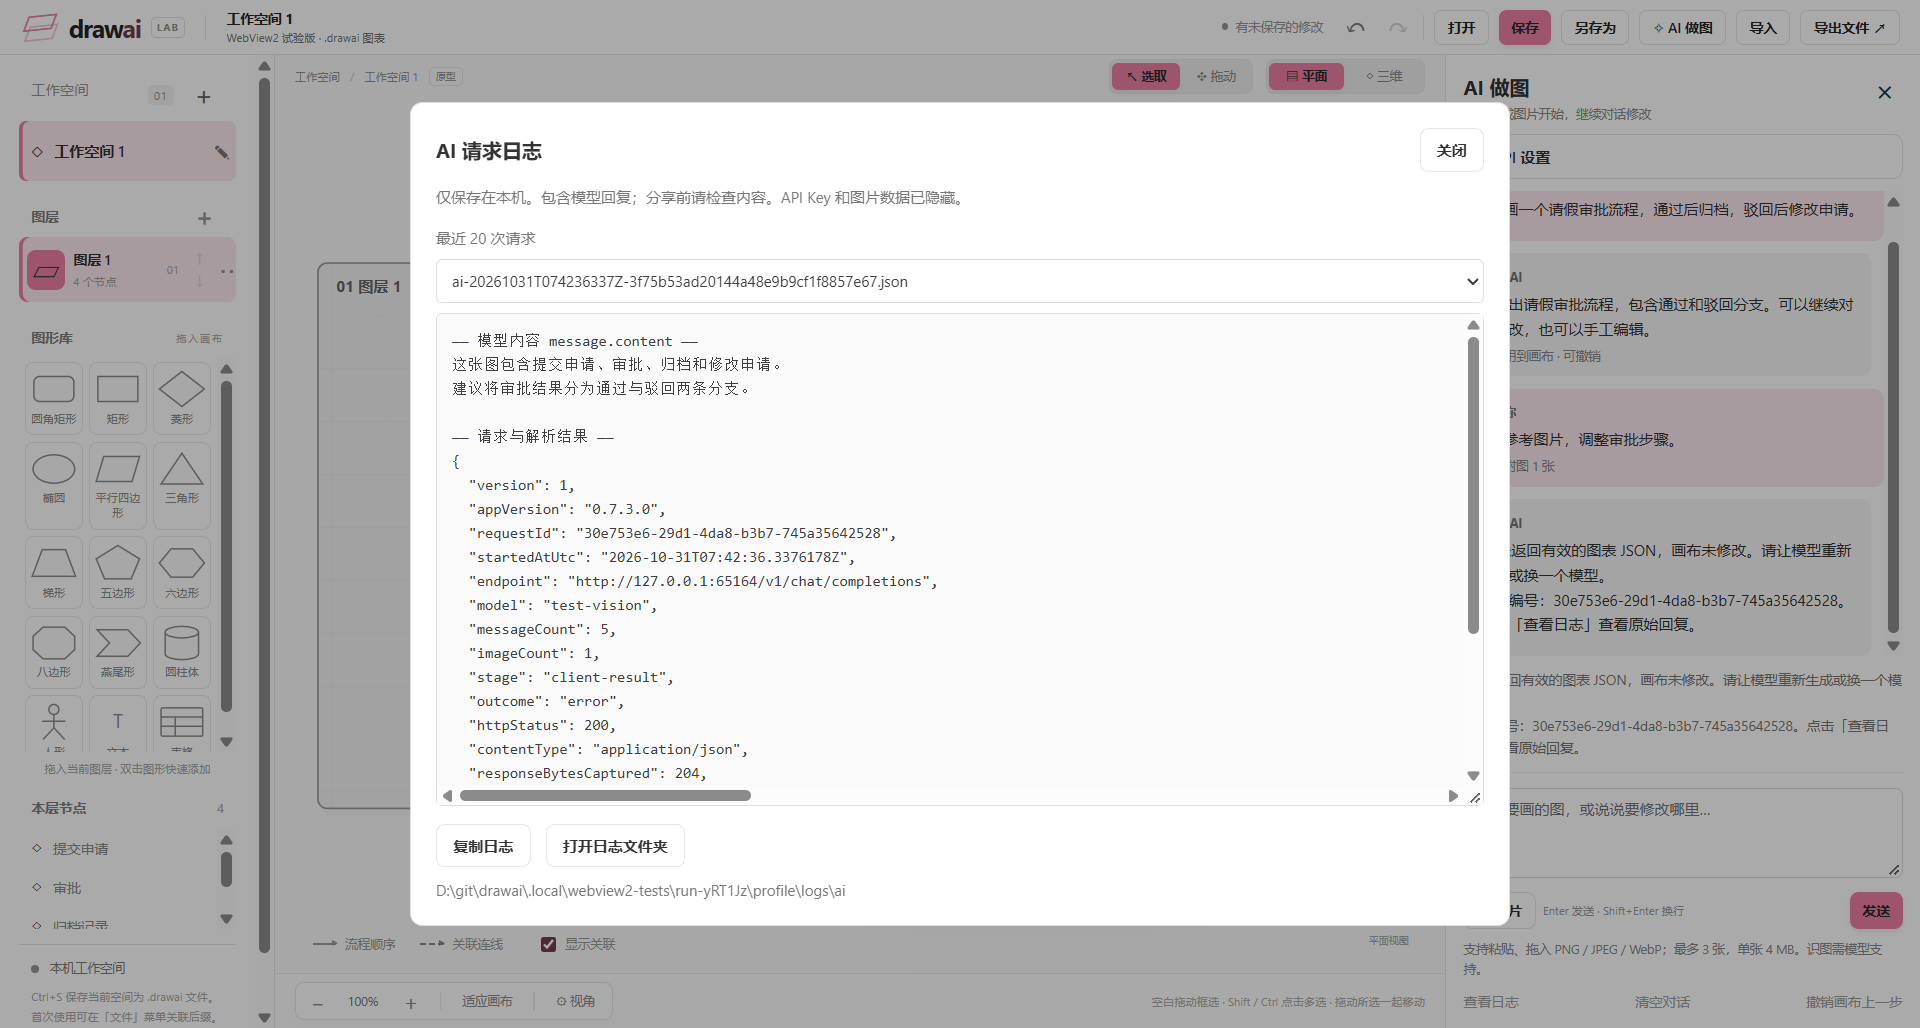
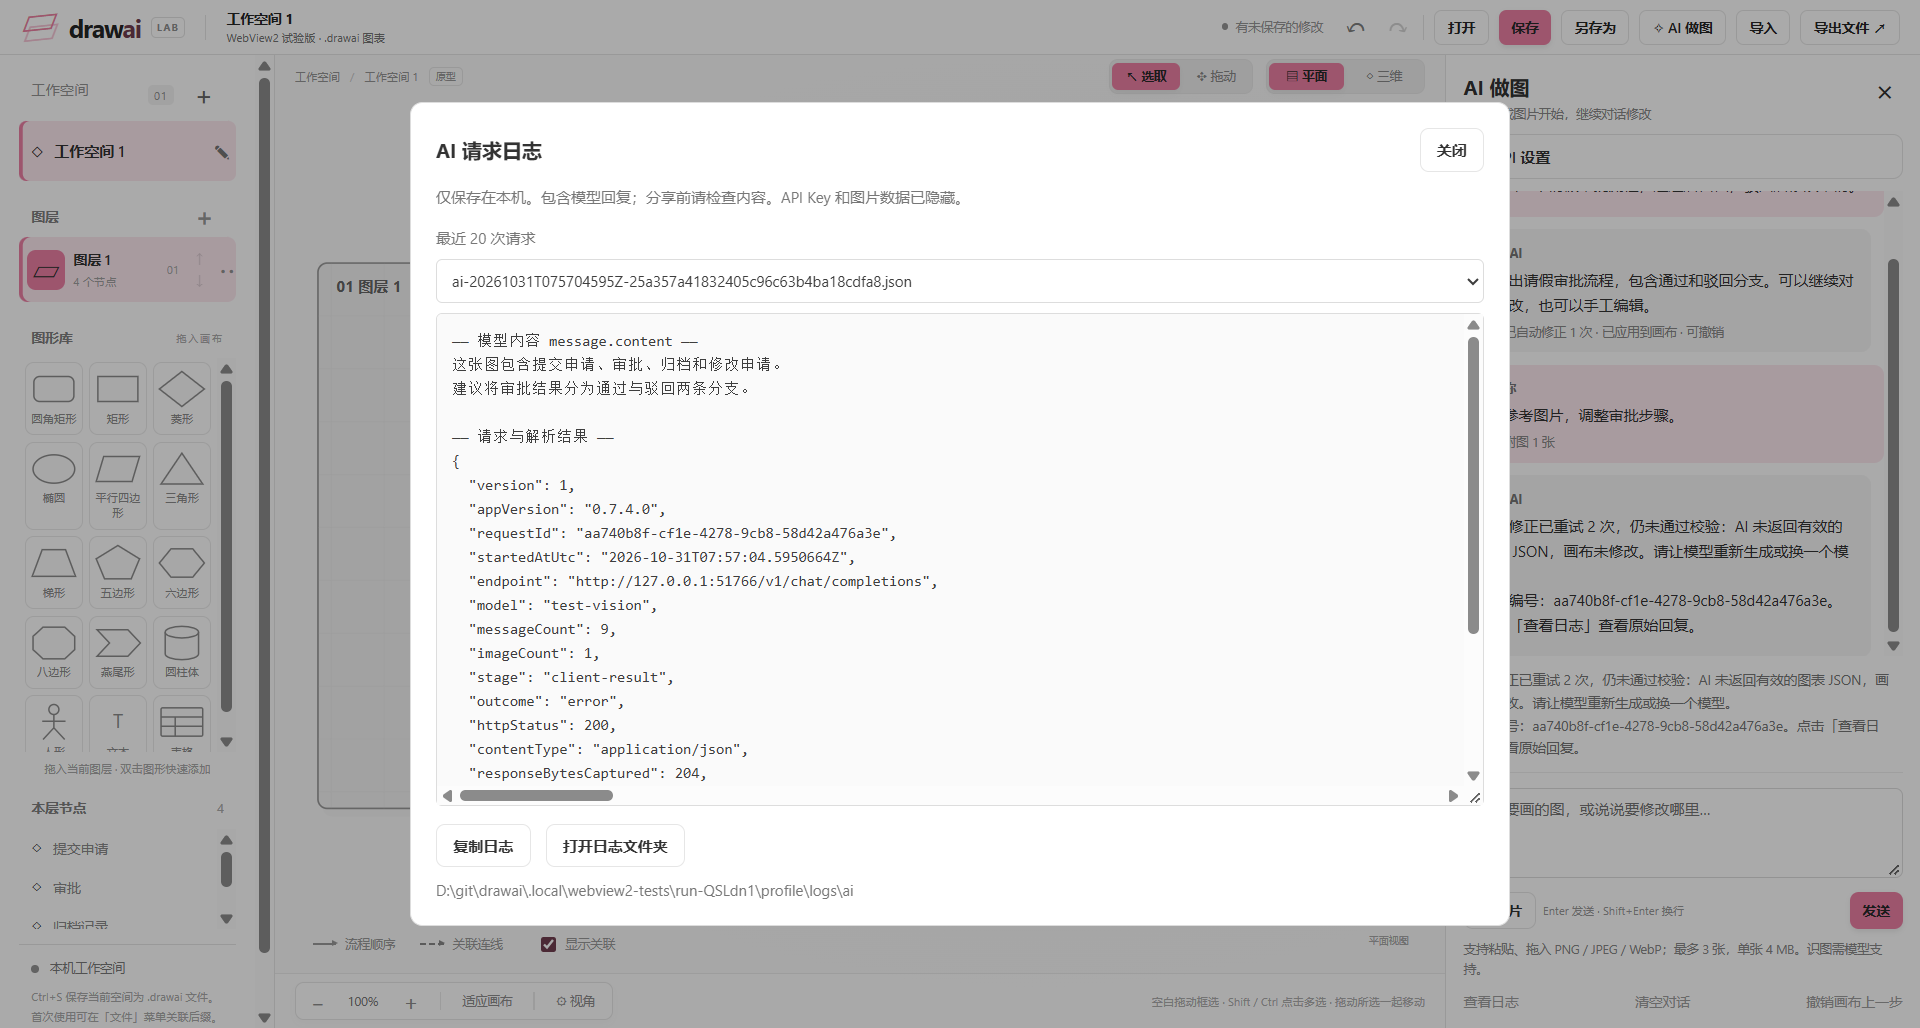
Retry invalid AI diagrams with precise validation feedback

diff --git a/src/ai-panel.js b/src/ai-panel.js
@@ -1,4 +1,4 @@
-import { aiSettings, aiRequest, aiResponse, fetchAI } from './ai.js';
+import { aiSettings, aiRequest, aiResponse, fetchAI, aiRepairRequest, AIValidationError } from './ai.js';
 
 export function mountAIPanel(host) {
   const $ = id => document.getElementById(id), panel = $('ai-panel'), sessions = new Map();
@@ -70,7 +70,7 @@ export function mountAIPanel(host) {
     $('ai-new-workspace').hidden = !s.pending;
     $('ai-clear').disabled = !!busy;
     $('ai-toggle').textContent = busy ? 'AI 生成中…' : '✧ AI 做图';
-    if (busy) note(busy.testing ? '正在测试连接…' : busy.workspace === host.context().id ? 'AI 正在理解并绘图，可以随时停止…' : '另一个工作空间正在生成，可以停止或稍后返回查看。');
+    if (busy) note(busy.retryStatus || (busy.testing ? '正在测试连接…' : busy.workspace === host.context().id ? 'AI 正在理解并绘图，可以随时停止…' : '另一个工作空间正在生成，可以停止或稍后返回查看。'));
     messages.scrollTop = messages.scrollHeight;
   }
   $('ai-toggle').onclick = () => { panel.hidden = !panel.hidden; $('ai-toggle').setAttribute('aria-expanded', String(!panel.hidden)); if (!panel.hidden) { refresh(); $('ai-prompt').focus(); } host.resize(); };
@@ -121,32 +121,69 @@ export function mountAIPanel(host) {
       if (s.messages.length > 40) s.messages.splice(0, s.messages.length - 40);
     }
     refresh();
-    let outcome = 'success', diagnostic = '', logError = '';
-    const timer = setTimeout(() => { job.timedOut = true; job.controller.abort(); host.transport?.cancel(job.id); }, 120000);
+    let outcome = 'success', diagnostic = '', logError = '', attempt = 0;
+    const operationId = job.id;
+    let loggedId = null;
+    const describeError = error => {
+      const parts = [];
+      for (let current = error, depth = 0; current && depth < 5; current = current.cause, depth++) parts.push(current.stack || current.name + ': ' + current.message);
+      return parts.join('\nCaused by: ');
+    };
+    async function saveAttempt() {
+      if (!host.logs || loggedId === job.id) return;
+      loggedId = job.id;
+      try {
+        const saved = await host.logs.result({ id: job.id, outcome: job.timedOut ? 'timeout' : job.canceled ? 'canceled' : outcome, error: ('任务编号：' + operationId + '；尝试 ' + (attempt + 1) + '/3\n' + diagnostic).slice(0, 16000) });
+        lastLogFile = saved.file || lastLogFile; logError = saved.error || saved.logError || logError;
+      } catch { logError = '日志写入失败。'; }
+    }
+    let timer;
+    const startTimer = () => timer = setTimeout(() => { job.timedOut = true; job.controller.abort(); host.transport?.cancel(job.id); }, 120000);
     try {
-      const reply = host.transport ? await host.transport.request({ ...request, id: job.id }) : await fetchAI(request, job.controller.signal);
-      lastLogFile = reply.logFile || null; logError = reply.logError || '';
-      if (job.canceled || job.timedOut) return;
-      if (reply.error) throw new Error(reply.error);
-      if (testing) {
-        if (reply.status < 200 || reply.status >= 300) aiResponse(reply.text, reply.status);
-        let body; try { body = JSON.parse(reply.text); } catch { throw new Error('接口未返回 JSON，请检查地址。'); }
-        if (!body.choices?.[0]?.message) throw new Error('接口回复不符合 Chat Completions 格式。');
-        note('连接成功，模型可用。识图能力需通过附图请求确认。'); return;
+      let result;
+      for (attempt = 0; attempt <= 2; attempt++) {
+        if (job.canceled || job.timedOut) return;
+        startTimer();
+        const reply = host.transport ? await host.transport.request({ ...request, id: job.id }) : await fetchAI(request, job.controller.signal);
+        clearTimeout(timer);
+        lastLogFile = reply.logFile || null; logError = reply.logError || logError;
+        if (job.canceled || job.timedOut) return;
+        if (reply.error) throw new Error(reply.error);
+        if (testing) {
+          if (reply.status < 200 || reply.status >= 300) aiResponse(reply.text, reply.status);
+          let body; try { body = JSON.parse(reply.text); } catch { throw new Error('接口未返回 JSON，请检查地址。'); }
+          if (!body.choices?.[0]?.message) throw new Error('接口回复不符合 Chat Completions 格式。');
+          note('连接成功，模型可用。识图能力需通过附图请求确认。'); return;
+        }
+        try {
+          result = aiResponse(reply.text, reply.status);
+          if (attempt && !result.document) throw new AIValidationError('修正回复缺少完整图表 document，画布未修改。');
+          break;
+        } catch (error) {
+          if (!(error instanceof AIValidationError)) throw error;
+          if (attempt === 2) throw new Error('自动修正已重试 2 次，仍未通过校验：' + error.message, { cause: error });
+          const nextRequest = aiRepairRequest(request, reply.text, error);
+          outcome = 'retry'; diagnostic = describeError(error);
+          await saveAttempt();
+          if (job.canceled || job.timedOut) return;
+          job.id = crypto.randomUUID(); request = nextRequest; outcome = 'success'; diagnostic = '';
+          job.retryStatus = '校验失败：' + error.message + '\n正在让模型修正（第 ' + (attempt + 1) + '/2 次重试）…';
+          refresh();
+        }
       }
-      const result = aiResponse(reply.text, reply.status);
       let status = '';
       if (result.document) {
         if (host.apply(result.document, base)) { status = '已应用到画布 · 可撤销'; s.pending = null; }
         else { s.pending = result.document; outcome = 'pending-review'; status = '画布已变化，未覆盖。可在新工作空间查看结果。'; }
       }
+      if (attempt) status = '模型已自动修正 ' + attempt + ' 次 · ' + status;
       s.messages.push({ role: 'assistant', text: result.message || '已生成图表。', status });
       note(status || 'AI 已回复。');
       if (host.context().id !== base.id) host.notify('AI 已完成，请回到原工作空间查看结果。');
     } catch (error) {
       if (job.canceled || job.timedOut) return;
       outcome = 'error';
-      diagnostic = [error.name + ': ' + error.message, error.cause ? error.cause.name + ': ' + error.cause.message : '', error.stack || ''].filter(Boolean).join('\n');
+      diagnostic = describeError(error);
       const message = error instanceof TypeError ? (host.transport ? '无法连接 API，请检查地址和网络。' : '无法连接 API，请检查地址、网络和跨域设置；不支持浏览器跨域的接口可使用桌面版。') : error.message;
       const safe = [key, request.key].filter(Boolean).reduce((text, secret) => text.split(secret).join('[已隐藏]'), String(message));
       const displayed = safe + (host.logs ? '\n请求编号：' + job.id + '。点击「查看日志」查看原始回复。' : '');
@@ -154,12 +191,7 @@ export function mountAIPanel(host) {
       note(displayed);
     } finally {
       clearTimeout(timer);
-      if (host.logs) {
-        try {
-          const saved = await host.logs.result({ id: job.id, outcome: job.timedOut ? 'timeout' : job.canceled ? 'canceled' : outcome, error: diagnostic.slice(0, 16000) });
-          lastLogFile = saved.file || lastLogFile; logError = saved.error || saved.logError || '';
-        } catch { logError = '日志写入失败。'; }
-      }
+      await saveAttempt();
       busy = null; refresh();
       if (job.timedOut) note('请求超过 120 秒，已停止，画布未修改。可缩小绘图范围后重试。');
       else if (job.canceled) note('已停止请求，画布未修改。');

diff --git a/tests/browser/ai.spec.js b/tests/browser/ai.spec.js
@@ -58,3 +58,40 @@ test('stale AI response preserves manual edits and can open separately; cancel a
   await page.unrouteAll(); await page.route(address + '/chat/completions',route=>route.fulfill({json:{choices:[{message:{content:'bad'}}]}}));
   await promptAI(page,'非法回复'); await expect(page.locator('#ai-status')).toContainText('未返回有效'); await expect(page.locator('.diagram-node')).toHaveCount(1);
 });
+
+test('AI sends precise errors and original images back twice, then applies one undoable result', async ({page})=>{
+  const calls=[];const doc=generated();doc.tables.push({id:'t1',layerId:'flow',title:'资料',x:0,y:220,width:200,height:120,columns:['项目'],cells:[['内容']]});
+  await page.route(address+'/chat/completions',async route=>{
+    calls.push(route.request().postDataJSON());
+    const reply=structuredClone(doc);
+    if(calls.length>1)reply.tables[0].width=240;
+    if(calls.length===2)reply.edges[0].target='missing';
+    await route.fulfill({json:completion(reply)});
+  });
+  await configureAI(page,address);await page.locator('#ai-image-file').setInputFiles(imageFile);
+  await expect(page.locator('#ai-images img')).toHaveCount(1);await promptAI(page,'照图生成');
+  await expect(page.locator('#ai-send')).toBeEnabled();await expect(page.locator('.shared-table')).toHaveCount(1);
+  expect(calls).toHaveLength(3);expect(calls[1].messages.at(-1).content).toContain('tables[0].width');expect(calls[2].messages.at(-1).content).toContain('edges[0].target');
+  expect(calls[2].messages.slice(0,3)).toEqual(calls[0].messages);expect(calls[2].messages.at(-2).role).toBe('assistant');
+  await expect(page.locator('#ai-messages')).toContainText('模型已自动修正 2 次');
+  await page.locator('#ai-undo').click();await expect(page.locator('.diagram-node,.shared-table')).toHaveCount(0);
+});
+
+test('AI stops at three invalid replies and does not retry HTTP failures',async({page})=>{
+  let calls=0;await page.route(address+'/chat/completions',route=>{calls++;return route.fulfill({json:{choices:[{message:{content:'not-json'}}]}});});
+  await configureAI(page,address);await promptAI(page,'做图');await expect(page.locator('#ai-send')).toBeEnabled();
+  await expect(page.locator('#ai-status')).toContainText('自动修正已重试 2 次');expect(calls).toBe(3);await expect(page.locator('.diagram-node')).toHaveCount(0);
+  await page.unroute(address+'/chat/completions');await page.route(address+'/chat/completions',route=>{calls++;return route.fulfill({status:401,json:{}});});
+  await promptAI(page,'重发');await expect(page.locator('#ai-send')).toBeEnabled();expect(calls).toBe(4);await expect(page.locator('#ai-status')).toContainText('401');
+});
+
+test('retry can be canceled and preserves edits made while waiting',async({page})=>{
+  let calls=0,release;
+  await page.route(address+'/chat/completions',async route=>{calls++;if(calls%2===1)return route.fulfill({json:{choices:[{message:{content:'bad'}}]}});await new Promise(r=>release=r);await route.fulfill({json:completion()}).catch(()=>{});});
+  await configureAI(page,address);await promptAI(page,'画流程');await expect.poll(()=>!!release).toBeTruthy();
+  await expect(page.locator('#ai-status')).toContainText('第 1/2 次重试');await page.locator('#ai-stop').click();release();
+  await expect(page.locator('#ai-send')).toBeEnabled();await expect(page.locator('#ai-status')).toContainText('已停止');expect(calls).toBe(2);await expect(page.locator('.diagram-node')).toHaveCount(0);
+  release=null;await promptAI(page,'再试');await expect.poll(()=>!!release).toBeTruthy();
+  await page.locator('[data-template="ellipse"]').dblclick();await page.locator('#inline-node-title').fill('保留手工内容');await page.locator('#inline-node-title').press('Enter');
+  release();await expect(page.locator('#ai-new-workspace')).toBeVisible();await expect(page.locator('.diagram-node')).toHaveCount(1);await expect(page.locator('.node-title')).toContainText('保留手工内容');
+});

diff --git a/src/ai.js b/src/ai.js
@@ -41,18 +41,30 @@ export function aiRequest(settings, context, history, text, images = []) {
   if (new TextEncoder().encode(body).length > AI_REQUEST_LIMIT) throw new Error('本次图表与图片内容过大，请减少图片或图表内容。');
   return { ...config, body };
 }
+export class AIValidationError extends Error {}
+export function aiRepairRequest(request, response, error) {
+  const body = JSON.parse(request.body), reply = JSON.parse(response);
+  let content = reply.choices?.[0]?.message?.content;
+  if (Array.isArray(content)) content = content.filter(p => p.type === 'text').map(p => p.text).join('');
+  body.messages.push({ role: 'assistant', content: typeof content === 'string' ? content : '[上一条回复没有文本内容]' },
+    { role: 'user', content: '上一次生成未通过 DrawAI 校验，画布尚未修改。具体错误：' + error.message + (error.cause?.message ? '\n解析/校验详情：' + error.cause.message : '') +
+      '\n请根据原始需求、图片和图表修复该错误，同时检查全部字段及连线引用。保持其他内容不变，返回完整的 {"message":"说明","document":完整图表} JSON，不要只返回补丁，不要以 document:null 代替修复。' });
+  const serialized = JSON.stringify(body);
+  if (new TextEncoder().encode(serialized).length > AI_REQUEST_LIMIT) throw new Error('自动修正请求过大，已停止，画布未修改。');
+  return { ...request, body: serialized };
+}
 export function aiResult(raw) {
-  if (typeof raw !== 'string' || raw.length > AI_RESPONSE_LIMIT) throw new Error('AI 返回内容过大或无效，画布未修改。');
+  if (typeof raw !== 'string' || raw.length > AI_RESPONSE_LIMIT) throw new AIValidationError('AI 返回内容过大或无效，画布未修改。');
   let value;
-  try { value = JSON.parse(raw.trim().replace(/^```(?:json)?\s*/i, '').replace(/\s*```$/, '')); } catch (cause) { throw new Error('AI 未返回有效的图表 JSON，画布未修改。请让模型重新生成或换一个模型。', { cause }); }
-  if (!value || typeof value.message !== 'string' || value.message.length > 12000 || !Object.hasOwn(value, 'document')) throw new Error('AI 回复格式不符合要求，画布未修改。');
+  try { value = JSON.parse(raw.trim().replace(/^```(?:json)?\s*/i, '').replace(/\s*```$/, '')); } catch (cause) { throw new AIValidationError('AI 未返回有效的图表 JSON，画布未修改。请让模型重新生成或换一个模型。', { cause }); }
+  if (!value || typeof value.message !== 'string' || value.message.length > 12000 || !Object.hasOwn(value, 'document')) throw new AIValidationError('AI 回复格式不符合要求，画布未修改。');
   if (value.document === null) return { message: value.message, document: null };
   try {
-    if (value.document?.version !== 3) throw new Error('document.version：必须为数字 3。');
+    if (value.document?.version !== 3) throw new AIValidationError('document.version：必须为数字 3。');
     const { document, merged } = normalizeAITables(value.document);
     const validated = validateDocument(document);
     return { message: value.message + (merged ? '\n已合并 ' + merged + ' 处完全相同的表格副本，保留表格内容和关联连线。' : ''), document: validated };
-  } catch (cause) { throw new Error('AI 图表存在无效数据：' + cause.message + ' 画布未修改。', { cause }); }
+  } catch (cause) { throw new AIValidationError('AI 图表存在无效数据：' + cause.message + ' 画布未修改。', { cause }); }
 }
 
 // Some models repeat an identical table in nodes. Only that unambiguous duplicate

diff --git a/desktop-webview/Program.cs b/desktop-webview/Program.cs
@@ -19,8 +19,8 @@ using Microsoft.Web.WebView2.Core;
 using Microsoft.Web.WebView2.WinForms;
 using Microsoft.Win32;
 
-[assembly: System.Reflection.AssemblyVersion("0.7.3.0")]
-[assembly: System.Reflection.AssemblyFileVersion("0.7.3.0")]
+[assembly: System.Reflection.AssemblyVersion("0.7.4.0")]
+[assembly: System.Reflection.AssemblyFileVersion("0.7.4.0")]
 
 namespace DrawAI.WebViewEdition {
 static class Program {
@@ -237,7 +237,7 @@ sealed class EditorWindow : Form {
                 var update = Program.Obj(value); AiLog log; string requestId = Program.Str(update, "id");
                 if (requestId == null || !aiLogs.TryGetValue(requestId, out log)) throw new Exception("未找到对应的 AI 请求日志。");
                 string outcome = Program.Str(update, "outcome"), error = Program.Str(update, "error") ?? "";
-                if (!new[] { "success", "error", "canceled", "timeout", "pending-review" }.Contains(outcome) || error.Length > 16000) throw new Exception("日志结果格式无效。");
+                if (!new[] { "success", "error", "canceled", "timeout", "pending-review", "retry" }.Contains(outcome) || error.Length > 16000) throw new Exception("日志结果格式无效。");
                 log.Outcome(outcome, error, "client-result"); log.ForgetSecrets(); aiLogs.Remove(requestId); result = new { file = log.Name, logError = log.WriteError };
             }
             else if (type == "ai-cancel" && initialized) {

diff --git a/docs/ai.md b/docs/ai.md
@@ -19,14 +19,14 @@
 - 每次发送当前工作空间的完整图表、最多 10 条最近对话和本次图片，**直接发送到用户配置的服务商**；不会经过 DrawAI 的服务器。用户需自行判断服务商的数据政策与费用。
 - 地址与模型保存在本机浏览器存储。API Key 仅保留在当前窗口内存，重启/刷新后重新填写。对话输入和附图只在当前窗口保留；模型回复会进入下述本机诊断日志。这些内容不写入 `.drawai` 文件、发布包或源码。
 - WebView2 由本机宿主直接发起 HTTP 请求，避免浏览器跨域限制。在线站点不提供 AI，历史 Electron 实现不再作为当前交付。无公共代理。
-- 请求超时 120 秒，可手动停止；请求上限 16 MiB、回复上限 2 MiB。鉴权失败、截断或无效图表会显示错误，画布保持不变。
+- 每次尝试超时 120 秒，可手动停止整个生成过程；请求上限 16 MiB、回复上限 2 MiB。鉴权失败、截断或无效图表会显示错误，画布保持不变。
 - 等待回复期间若画布或工作空间变化，结果不会覆盖当前图；可点击「在新工作空间查看结果」。
 
-第一版未实现流式输出、自动重试、模型列表发现、原生 Responses/Anthropic/Gemini 协议或本地模型安装。服务商若提供 Chat Completions 兼容地址，可按上述方式接入。图表复杂度与还原质量取决于模型；建议先生成主要结构，再逐步补充分支。
+当前未实现流式输出、模型列表发现、原生 Responses/Anthropic/Gemini 协议或本地模型安装。服务商若提供 Chat Completions 兼容地址，可按上述方式接入。图表复杂度与还原质量取决于模型；建议先生成主要结构，再逐步补充分支。
 
-## 返回数据处理（0.7.3）
+## 返回数据处理（0.7.4）
 
-提示明确要求表格只出现在 `tables`，连线直接引用表格 ID。如果模型将同一表格同时写进 `nodes`（`kind: "table"`）和 `tables`，且除 kind 外全部字段完全一致，AI 处理层会合并为一张表，并提示合并数量；所有内容、坐标、尺寸和连线 ID 保留。不自动合并字段有差异的表格，也不修复悬空引用、强改尺寸或覆盖普通图形的重复 ID。普通文件导入仍严格校验。
+提示明确要求表格只出现在 `tables`，连线直接引用表格 ID。如果模型将同一表格同时写进 `nodes`（`kind: "table"`）和 `tables`，且除 kind 外全部字段完全一致，AI 处理层会合并为一张表，并提示合并数量；所有内容、坐标、尺寸和连线 ID 保留。不自动合并字段有差异的表格，也不修复悬空引用或覆盖普通图形的重复 ID。JSON 解析或图表校验失败时，客户端将具体错误路径和原因连同模型上一条回复发回模型，要求返回修正后的完整图表，最多自动重试 2 次（共最多 3 次调用）。例如表格宽 200 会将 `tables[0].width：必须为 240–4000 的数字` 反馈给模型，不在客户端改写尺寸。重试保留原始需求、当前图表及本次图片；只在完整校验通过后一次性应用，支持撤销。修正回复不能用 `document:null` 跳过修复；普通交流仍允许 null。网络、鉴权、限流、接口错误、拒绝或截断不触发自动修正。每次尝试独立记录日志，日志中带共同任务编号和尝试次数。界面显示重试进度，停止后不再继续。普通文件导入仍严格校验。
 
 校验错误现在包含具体路径，例如 `nodes[4].kind`、`tables[0].id`、`edges[2].target`，界面和日志均保留原因。
 

diff --git a/docs/03-data-model.md b/docs/03-data-model.md
@@ -54,3 +54,5 @@ HTML 导出容器格式为 `{ format: 1, storageKey, revision, document, view, a
 ## 诊断与 AI 表格副本（0.7.3）
 
 文档校验保留原有限制，错误包含字段路径和原因。AI 返回结果单独做有限规范化：只移除 nodes 中 kind=table 且与 tables 同 ID、全部其他字段完全相同的副本。冲突仍拒绝，连线继续指向原表 ID。文件导入不进行此规范化，避免猜测用户文件含义。
+
+0.7.4：AI JSON/图表校验失败时，将具体错误和上一条回复反馈给模型，最多自动重试 2 次。尺寸限制不变，不由客户端改写越界值；仅完整有效的结果会一次性应用。原图、原始需求与图片在重试期间保留，文件导入规则不变。
